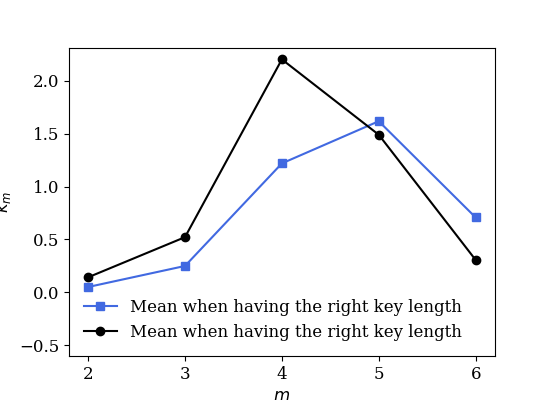
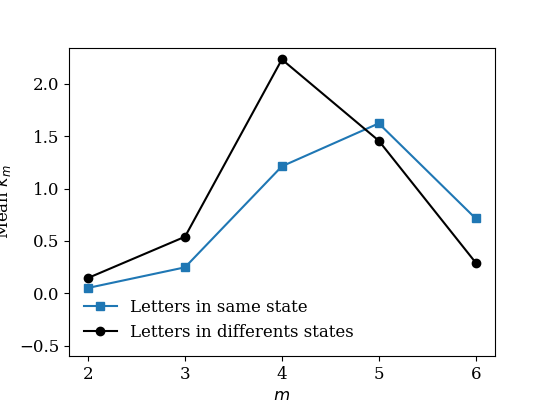
Method done

diff --git a/EntropyAndCorrelations.py b/EntropyAndCorrelations.py
@@ -179,9 +179,9 @@ def compareKmWithSkip(maxKeyLength=45):
     ax.plot(np.arange(2, 7), k_m_vigenere_k_mean, 's-', color='tab:blue')
     ax.plot(np.arange(2, 7), k_m_vigenere_s_mean, 'ko-')
     ax.set_xlabel(r'$m$')
-    ax.set_ylabel(r'$k_m$')
+    ax.set_ylabel(r'Mean $k_m$')
     ax.set_ylim(bottom=-0.6)
-    ax.legend(['Mean when only having letters in the same state', 'Mean when having letters in differents states'], frameon=False)
+    ax.legend(['Letters in same state', 'Letters in differents states'], frameon=False)
     plt.savefig('km_with_skip.pdf')
     plt.savefig('km_with_skip.png')
     plt.close()
